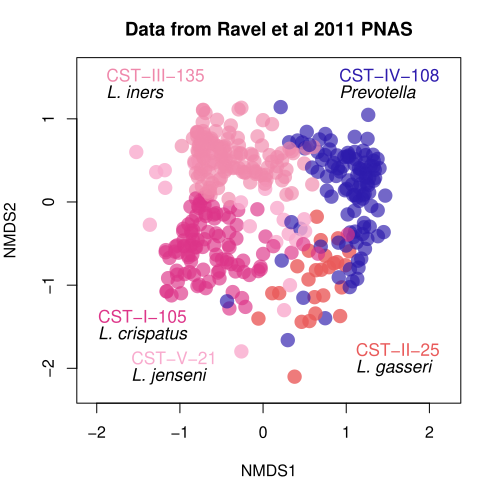
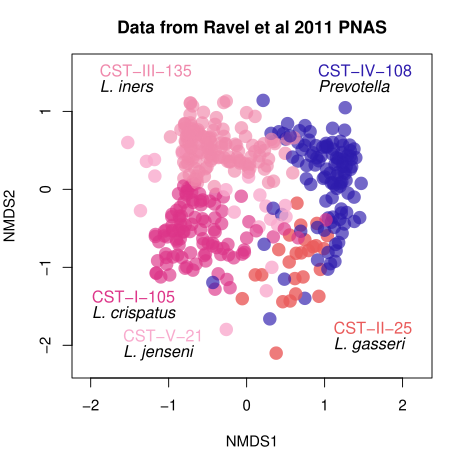
minor formatting

diff --git a/eco_diversity/README.md b/eco_diversity/README.md
@@ -37,14 +37,16 @@ Point size was proporitional to the number of reads per sample. This is replotte
 ![ireland_sponge_reads_vs_diversity_index_v1.png](https://github.com/wrf/misc-analyses/blob/master/eco_diversity/images/ireland_sponge_reads_vs_diversity_index_v1.png) ![busch2022_sample_diversity_index_v1.png](https://github.com/wrf/misc-analyses/blob/master/eco_diversity/images/busch2022_sample_diversity_index_v1.png) ![albert2015_reads_vs_diversity_index_v1.png](https://github.com/wrf/misc-analyses/blob/master/eco_diversity/images/albert2015_reads_vs_diversity_index_v1.png) ![hugerth_2019_reads_vs_alpha_diversity_v1.png](https://github.com/wrf/misc-analyses/blob/master/eco_diversity/images/hugerth_2019_reads_vs_alpha_diversity_v1.png)
 
 ### ordination has varied results ###
-Most points or categories are already separable by number of species or alpha diversity in the above graphs prior to defining any clusters. NMDS (with `metaMDS()`) achieves much of the same separation, but the output is less intuitive to students. The separation is much better with the constrained ordination.
+Most points or categories are already separable by number of species or alpha diversity in the above graphs prior to defining any clusters. NMDS (with `metaMDS()`) achieves much of the same separation, but the output is less intuitive to students, and the same goes for the redundancy analysis (using the `rda()`).
 
 ![ravel2011_mds_v1.png](https://github.com/wrf/misc-analyses/blob/master/eco_diversity/images/ravel2011_mds_v1.png) ![ravel2011_unconst_rda_v1.png](https://github.com/wrf/misc-analyses/blob/master/eco_diversity/images/ravel2011_unconst_rda_v1.png) 
 
-With constrained (combining the only 3x metadata factors using the `rda()`), the effect of pH is clear (right plot) in shaping the species (left plot). Ethnicity has little effect (middle plot).
+The separation is much better with the constrained ordination below. With constrained (combining the only 3x metadata factors), the effect of pH is clear (right plot) in shaping the species (left plot). Ethnicity has little effect (middle plot), though it is argued in other studies that there is a small effect of ethnicity (such as in [Zhou 2011](https://pmc.ncbi.nlm.nih.gov/articles/PMC2868947/) or [Albert 2015](https://doi.org/10.1371/journal.pone.0135620)) with higher proportions of CST-III (*L. iners* dominated) in Asian women. This was the main CST found in Amazonian women in Venezuela [Vargas‑Robles 2020](https://doi.org/10.1038/s41598-020-69111-x), potentially representing either the ancestral state, or a genetic effect as above.
+
 ![ravel2011_constrained_rda_tricolor_v1.png](https://github.com/wrf/misc-analyses/blob/master/eco_diversity/images/ravel2011_constrained_rda_tricolor_v1.png) 
 
-Another example of unconstrained NMDS, though the samples were from very different types, and were already separable by diversity index. This dataset did not have other parameters in the metadata.
+Another example of unconstrained NMDS, though the samples were from very different types, and were already separable by diversity index alone. This dataset did not have other parameters in the metadata.
+
 ![aronson2016_mds_analysis_v1.png](https://github.com/wrf/misc-analyses/blob/master/eco_diversity/images/aronson2016_mds_analysis_v1.png) ![aronson2016_unconst_rda_v1.png](https://github.com/wrf/misc-analyses/blob/master/eco_diversity/images/aronson2016_unconst_rda_v1.png)
 
 
